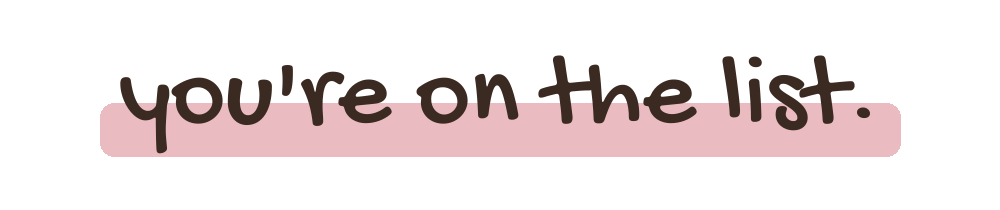
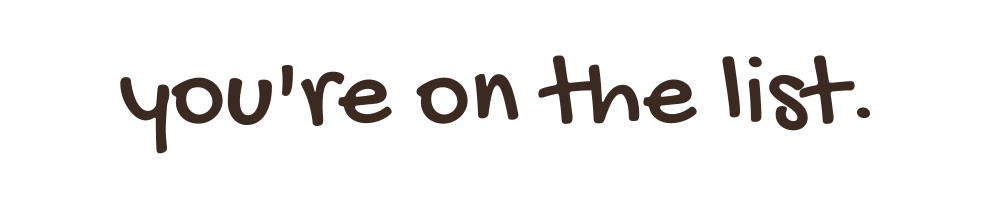
Remove pink highlighter from email headlines; waitlist intro in full sentences

Changed region(s): [[0.093, 0.4857, 0.899, 0.7714]]

diff --git a/waitlist/index.html b/waitlist/index.html
@@ -77,7 +77,7 @@ footer .soc a{text-decoration:none;color:var(--ink)}
 <header class="hero"><div class="inner">
   <span class="kicker">The waitlist · from Lauren</span>
   <h1>Get in first.</h1>
-  <p class="lede">The journal I built after I was diagnosed with severe postpartum depression. It lives on your phone, and most of it is taps. Because my capacity was shot, and I bet yours is too.</p>
+  <p class="lede">I built this journal after I was diagnosed with severe postpartum depression. It lives on your phone, and most of it is just taps. I made it that way because my capacity was shot, and I bet yours is too.</p>
   <form class="signup" action="https://app.kit.com/forms/10195710/subscriptions" method="post" data-form>
     <label for="email1" style="position:absolute;left:-9999px">Your email</label>
     <input id="email1" name="email_address" type="email" required autocomplete="email" placeholder="Your email address">
